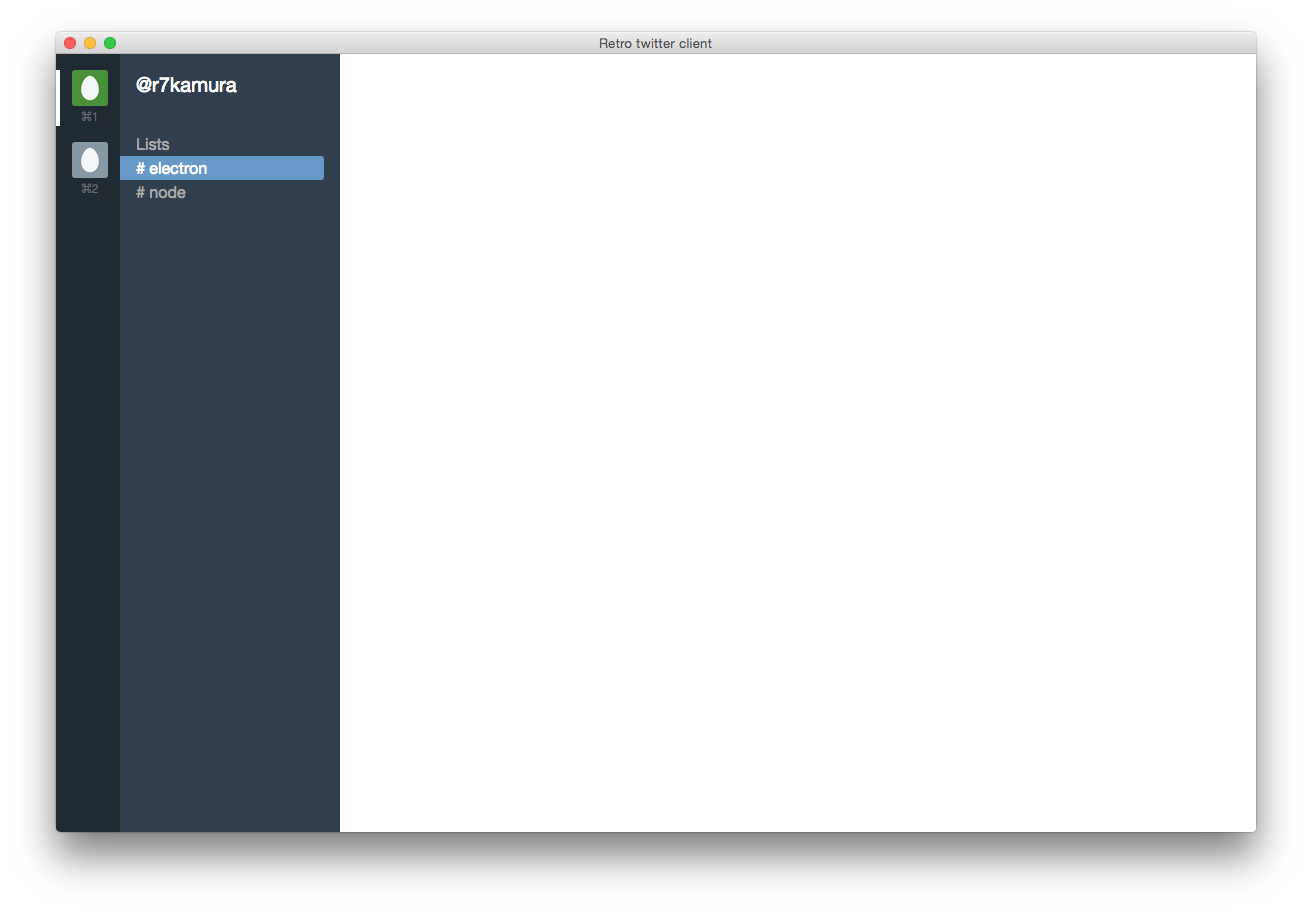
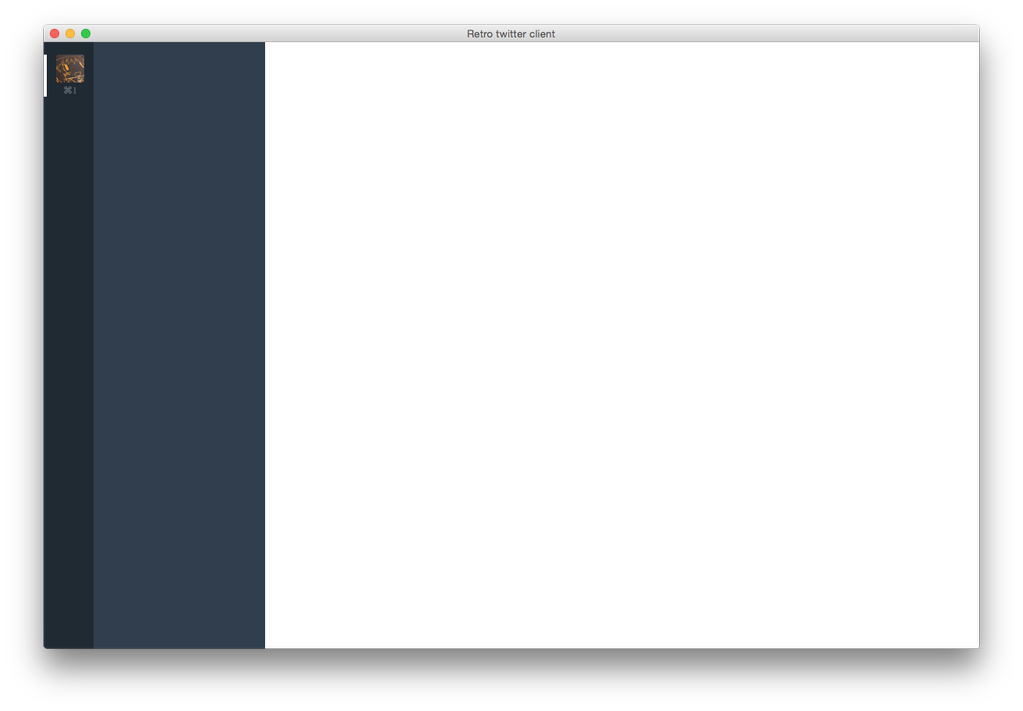
Add more historical images

Changed region(s): [[0.0303, 0.1547, 0.2424, 0.2166], [0.0303, 0.0619, 0.1818, 0.1238]]

diff --git a/README.md b/README.md
@@ -1,7 +1,7 @@
 # retro-twitter-client
 A retro twitter client.
 
-![](/images/preview6.png)
+![](/images/preview7.png)
 
 ## Development
 ### npm run setup
